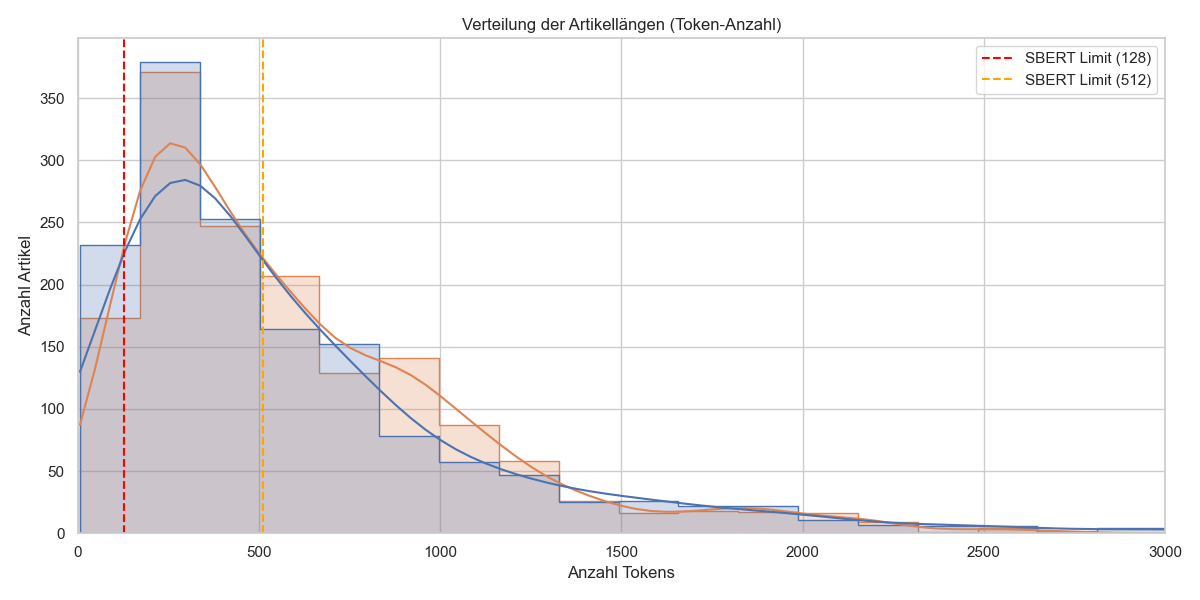
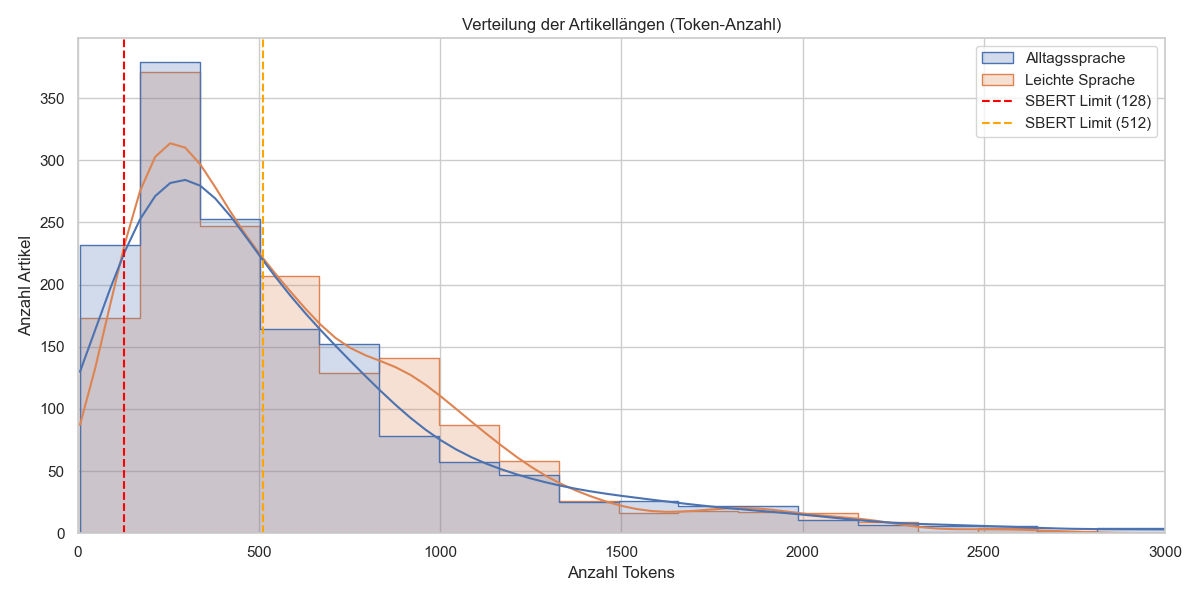
fix(analysis): merge seaborn and matplotlib legend for article length distribution

Changed region(s): [[0.8017, 0.09, 0.9558, 0.24]]

diff --git a/scripts/visualize_analysis.py b/scripts/visualize_analysis.py
@@ -154,7 +154,7 @@ def create_visualizations(plots_to_run):
         length_df = df[['as_tokens', 'ls_tokens']].melt(var_name='Sprache', value_name='Token-Anzahl')
         length_df['Sprache'] = length_df['Sprache'].map({'as_tokens': 'Alltagssprache', 'ls_tokens': 'Leichte Sprache'})
         
-        sns.histplot(data=length_df, x='Token-Anzahl', hue='Sprache', kde=True, bins=50, element="step", common_norm=False)
+        ax = sns.histplot(data=length_df, x='Token-Anzahl', hue='Sprache', kde=True, bins=50, element="step", common_norm=False)
         
         # Add SBERT limits for context
         plt.axvline(128, color='red', linestyle='--', label='SBERT Limit (128)')
@@ -163,7 +163,19 @@ def create_visualizations(plots_to_run):
         plt.title('Verteilung der Artikellängen (Token-Anzahl)')
         plt.xlabel('Anzahl Tokens')
         plt.ylabel('Anzahl Artikel')
-        plt.legend()
+        
+        # Merge legends to include both histplot labels and SBERT limit lines
+        h_lines, l_lines = ax.get_legend_handles_labels()
+        if ax.legend_:
+            try:
+                h_sb = ax.legend_.legend_handles
+            except AttributeError:
+                h_sb = ax.legend_.legendHandles
+            l_sb = [t.get_text() for t in ax.legend_.texts]
+            ax.legend(h_sb + h_lines, l_sb + l_lines)
+        else:
+            plt.legend()
+            
         plt.xlim(0, 3000) # Limit x-axis for better visibility of the bulk of articles
         plt.tight_layout()
         plt.savefig(os.path.join(OUTPUT_DIR, 'article_length_distribution.png'))
